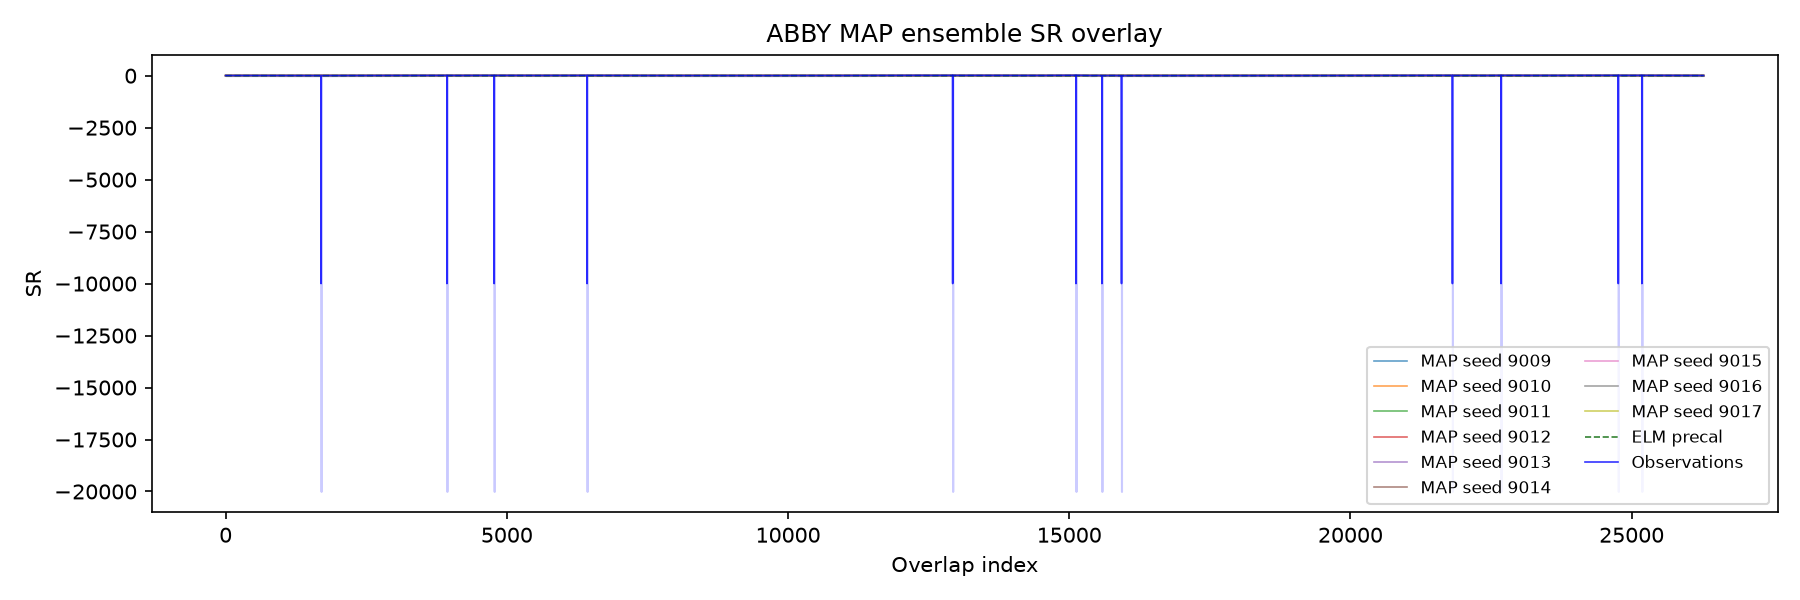
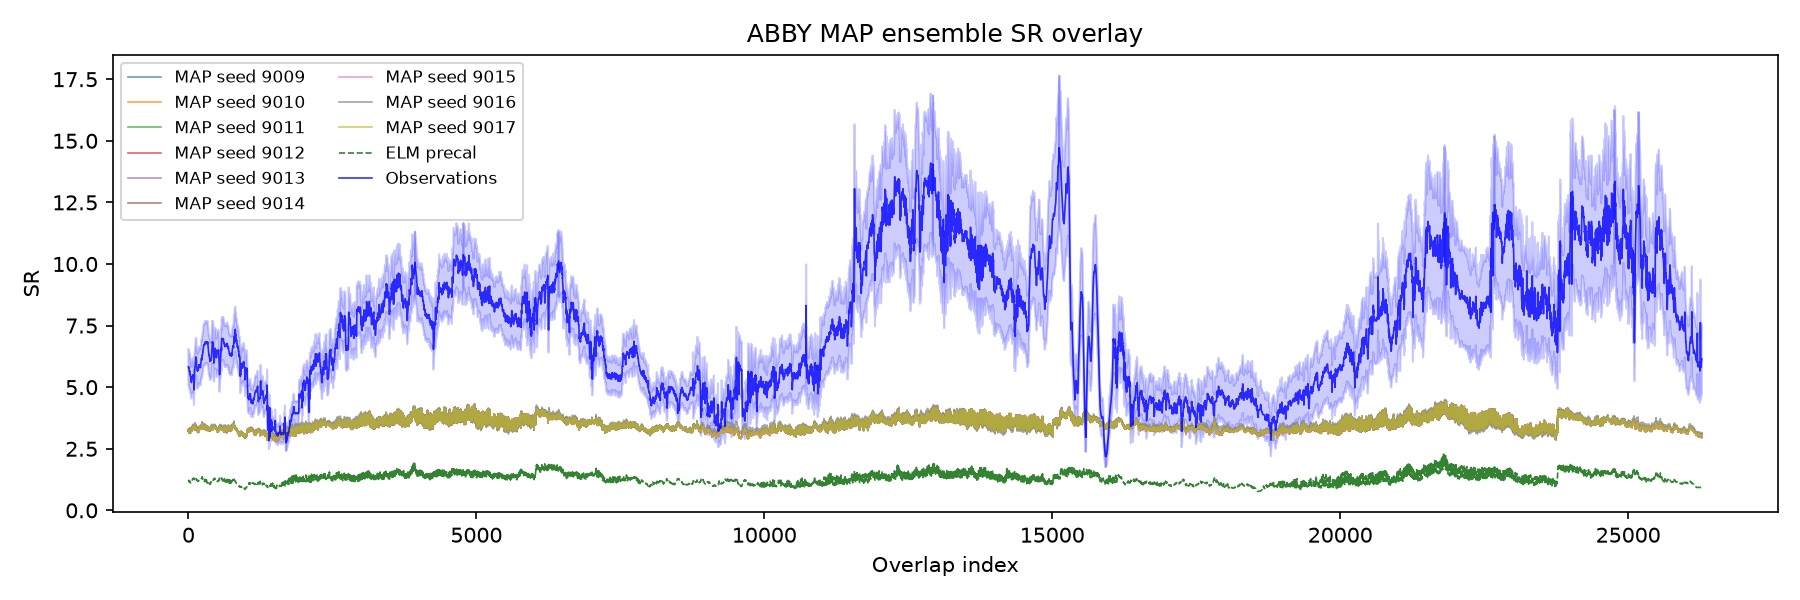
Fix MAP ensemble SR overlay masking and replot Iter016 figures.
Apply likelihood valid-mask to obs/err/MAP/ELM before plotting, add makeup Slurm replot (23595515), and refresh summary overlays with v2 manifests plus pre-makeup backups.

diff --git a/development/spinup_forcing_coupling/tools/plot_ensemble_sr_overlay.py b/development/spinup_forcing_coupling/tools/plot_ensemble_sr_overlay.py
@@ -22,9 +22,16 @@ for path in (REPO_ROOT, TOOLS_DIR):
 from ensemble_common import DEFAULT_SEEDS, SITE_CONFIG, load_leaf, tier_a_result  # noqa: E402
 from model_ELM.coupling_pipeline import build_coupling_target  # noqa: E402
 from model_ELM.MCMC_forcing import run_forcing_surrogate_site  # noqa: E402
+from model_ELM.mcmc_diagnostics import _valid_mask  # noqa: E402
 
 CASES = {"ABBY": "ABBY_ppe6_I20TRCNPRDCTCBC", "JERC": "JERC_ppe6_I20TRCNPRDCTCBC"}
-SCHEMA = "spinup-forcing-coupling-ensemble-sr-overlay-v1"
+SCHEMA = "spinup-forcing-coupling-ensemble-sr-overlay-v2"
+
+
+def mask_to_nan(values: np.ndarray, valid: np.ndarray) -> np.ndarray:
+    masked = np.asarray(values, dtype=float).copy().ravel()
+    masked[~valid] = np.nan
+    return masked
 
 
 def elm_baseline(target: dict, site: str) -> np.ndarray:
@@ -41,6 +48,15 @@ def elm_baseline(target: dict, site: str) -> np.ndarray:
     aligned = aligned.copy()
     aligned[aligned < -9000] = np.nan
     return aligned
+
+
+def masked_obs_err(
+    target: dict, site: str
+) -> tuple[np.ndarray, np.ndarray, np.ndarray, np.ndarray]:
+    obs = np.asarray(target["obs"][site]["SR"], float)
+    err = np.asarray(target["obs_err"][site]["SR"], float)
+    valid = _valid_mask(obs, err)
+    return obs, err, valid, np.arange(len(obs))
 
 
 def main() -> int:
@@ -63,10 +79,10 @@ def main() -> int:
         expected_physical_parameter_count=14,
     )
     context = target["context"][args.site]
-    obs = np.asarray(target["obs"][args.site]["SR"], float)
-    err = np.asarray(target["obs_err"][args.site]["SR"], float)
-    elm = elm_baseline(target, args.site)
-    x = np.arange(len(obs))
+    obs, err, valid, x = masked_obs_err(target, args.site)
+    obs_plot = mask_to_nan(obs, valid)
+    err_plot = mask_to_nan(err, valid)
+    elm = mask_to_nan(elm_baseline(target, args.site), valid)
 
     args.output_dir.mkdir(parents=True, exist_ok=True)
     plot_path = args.output_dir / "Predictions_SR_MAP_ensemble.png"
@@ -84,12 +100,13 @@ def main() -> int:
         pred = np.asarray(
             run_forcing_surrogate_site(context, leaf["map_state"][:-1], ["SR"])["SR"], float
         ).ravel()
+        pred_plot = mask_to_nan(pred, valid)
         label = f"MAP seed {seed}"
-        plt.plot(x, pred, linewidth=0.8, alpha=0.7, label=label)
+        plt.plot(x, pred_plot, linewidth=0.8, alpha=0.7, label=label)
         series.append({"seed": seed, "rmse": leaf["map_rmse"]})
     plt.plot(x, elm, color="darkgreen", linewidth=0.8, linestyle="--", label="ELM precal", alpha=0.8)
-    plt.plot(x, obs, color="blue", linewidth=0.8, label="Observations", alpha=0.8)
-    plt.fill_between(x, obs - err, obs + err, color="blue", alpha=0.2)
+    plt.plot(x, obs_plot, color="blue", linewidth=0.8, label="Observations", alpha=0.8)
+    plt.fill_between(x, obs_plot - err_plot, obs_plot + err_plot, color="blue", alpha=0.2)
     plt.xlabel("Overlap index")
     plt.ylabel("SR")
     plt.title(f"{args.site} MAP ensemble SR overlay")
@@ -98,7 +115,15 @@ def main() -> int:
     plt.savefig(plot_path, dpi=150)
     plt.close()
 
-    manifest = {"schema": SCHEMA, "site": args.site, "series": series, "plot": str(plot_path)}
+    manifest = {
+        "schema": SCHEMA,
+        "site": args.site,
+        "valid_mask": "(obs > -9000) & (err > 0) & finite",
+        "n_total": int(len(obs)),
+        "n_valid": int(np.count_nonzero(valid)),
+        "series": series,
+        "plot": str(plot_path),
+    }
     manifest_path.write_text(json.dumps(manifest, indent=2) + "\n", encoding="utf-8")
     print(f"SR_OVERLAY_PASS site={args.site} series={len(series)}")
     return 0

diff --git a/development/spinup_forcing_coupling/slurm/iter016/replot_sr_overlay_iter016.py b/development/spinup_forcing_coupling/slurm/iter016/replot_sr_overlay_iter016.py
@@ -1,0 +1,66 @@
+#!/usr/bin/env python3
+"""Iter016 makeup: replot MAP ensemble SR overlays with likelihood-valid mask."""
+from __future__ import annotations
+
+import argparse
+import shutil
+import subprocess
+import sys
+from pathlib import Path
+
+REPO_ROOT = Path("/xdisk/chopinsong/tianyihu/elm-olmt")
+TOOL = REPO_ROOT / "development/spinup_forcing_coupling/tools/plot_ensemble_sr_overlay.py"
+SITES = ("ABBY", "JERC")
+
+
+def sync_summary(site: str, site_dir: Path, summary_dir: Path) -> None:
+    prefix = site.lower()
+    mapping = {
+        "Predictions_SR_MAP_ensemble.png": f"{prefix}_Predictions_SR_MAP_ensemble.png",
+        "sr_overlay_manifest.json": f"{prefix}_sr_overlay_manifest.json",
+    }
+    for src_name, dst_name in mapping.items():
+        src = site_dir / src_name
+        dst = summary_dir / dst_name
+        if dst.is_file():
+            backup = dst.with_name(f"{dst.stem}_pre_valid_mask_makeup{dst.suffix}")
+            if not backup.is_file():
+                shutil.copy2(dst, backup)
+        shutil.copy2(src, dst)
+
+
+def main() -> int:
+    parser = argparse.ArgumentParser()
+    parser.add_argument("--root", type=Path, required=True)
+    parser.add_argument("--forcing-artifact", type=Path, required=True)
+    parser.add_argument("--spinup-artifact", type=Path, required=True)
+    parser.add_argument("--analysis-output", type=Path, required=True)
+    parser.add_argument("--summary-dir", type=Path, required=True)
+    args = parser.parse_args()
+
+    args.analysis_output.mkdir(parents=True, exist_ok=True)
+    args.summary_dir.mkdir(parents=True, exist_ok=True)
+    command_base = [sys.executable, str(TOOL), "--root", str(args.root), "--overwrite"]
+    for site in SITES:
+        site_dir = args.analysis_output / site.lower()
+        site_dir.mkdir(parents=True, exist_ok=True)
+        command = [
+            *command_base,
+            "--site",
+            site,
+            "--forcing-artifact",
+            str(args.forcing_artifact),
+            "--spinup-artifact",
+            str(args.spinup_artifact),
+            "--output-dir",
+            str(site_dir),
+        ]
+        subprocess.run(command, check=True)
+        sync_summary(site, site_dir, args.summary_dir)
+        print(f"REPLOT_SR_OVERLAY site={site} summary={args.summary_dir}")
+    print("REPLOT_SR_OVERLAY_PASS")
+    return 0
+
+
+if __name__ == "__main__":
+    raise SystemExit(main())

diff --git a/development/spinup_forcing_coupling/tools/README.md b/development/spinup_forcing_coupling/tools/README.md
@@ -161,7 +161,7 @@ Introduced in Iter016; orchestrated by `slurm/iter016/analyze_iter016.py`.
 | `ensemble_seed_health.py` | Per-seed acceptance/saturation/tau + Tier A pass/fail |
 | `ensemble_map_inventory.py` | Tier-A MAP parameter and skill inventory |
 | `ensemble_equifinality_diagnostics.py` | MAP Wasserstein + cloud confirmation labels |
-| `plot_ensemble_sr_overlay.py` | Tier-A MAP SR overlay vs observations and ELM precal |
+| `plot_ensemble_sr_overlay.py` | Tier-A MAP SR overlay vs observations and ELM precal (invalid obs/err masked with likelihood `_valid_mask`) |
 | `plot_ensemble_physical_corner.py` | Tier-A MAP + subsampled cloud corner plot |
 
 Tier A rule: mean acceptance ∈ [0.20, 0.50] only (no Wasserstein in Tier A).

diff --git a/development/spinup_forcing_coupling/summaries/iter016/ITER016_REPORT.md b/development/spinup_forcing_coupling/summaries/iter016/ITER016_REPORT.md
@@ -78,7 +78,7 @@ Interpretation: ABBY shows **parameter-space multiplicity** with **near-identica
 
 Interpretation: JERC retained ensemble reproduces Iter015 hourly/0.75 flat MAP SR (~0.667) with continued seed-health fragility (9009 still fails Tier A).
 
-Artifacts: `abby_equifinality_diagnosis.json`, `jerc_equifinality_diagnosis.json`, SR overlays, physical-corner plots (or skip manifests when applicable).
+Artifacts: `abby_equifinality_diagnosis.json`, `jerc_equifinality_diagnosis.json`, SR overlays (`ensemble-sr-overlay-v2`, invalid timesteps masked with likelihood `_valid_mask`; makeup job `23595515`), physical-corner plots (or skip manifests when applicable).
 
 ## Site-specific rationale
 

diff --git a/development/spinup_forcing_coupling/iterations/iter016.md b/development/spinup_forcing_coupling/iterations/iter016.md
@@ -34,6 +34,7 @@ See kickoff block in `iterations/iter016.md` initialization and `handoff/CURRENT
 | analysis | `analyze_iter016.slurm` | `23595316` | COMPLETED | `0:0` | `00:04:14` | `ANALYSIS_PASS` |
 | analysis (failed) | `analyze_iter016.slurm` | `23595280`, `23595293` | FAILED | `1:0` | — | tool schema fixes |
 | handoff_validation | `validate_iter016_handoff.slurm` | `23595354` | COMPLETED | `0:0` | `00:00:18` | `HANDOFF_VALIDATE_PASS` |
+| sr_overlay_replot | `replot_sr_overlay_iter016.slurm` | `23595515` | COMPLETED | `0:0` | `00:01:46` | valid-mask makeup |
 
 Repository commit at materialization: `eca6014c87012075e51ec48448957395a46e52b7`.
 
